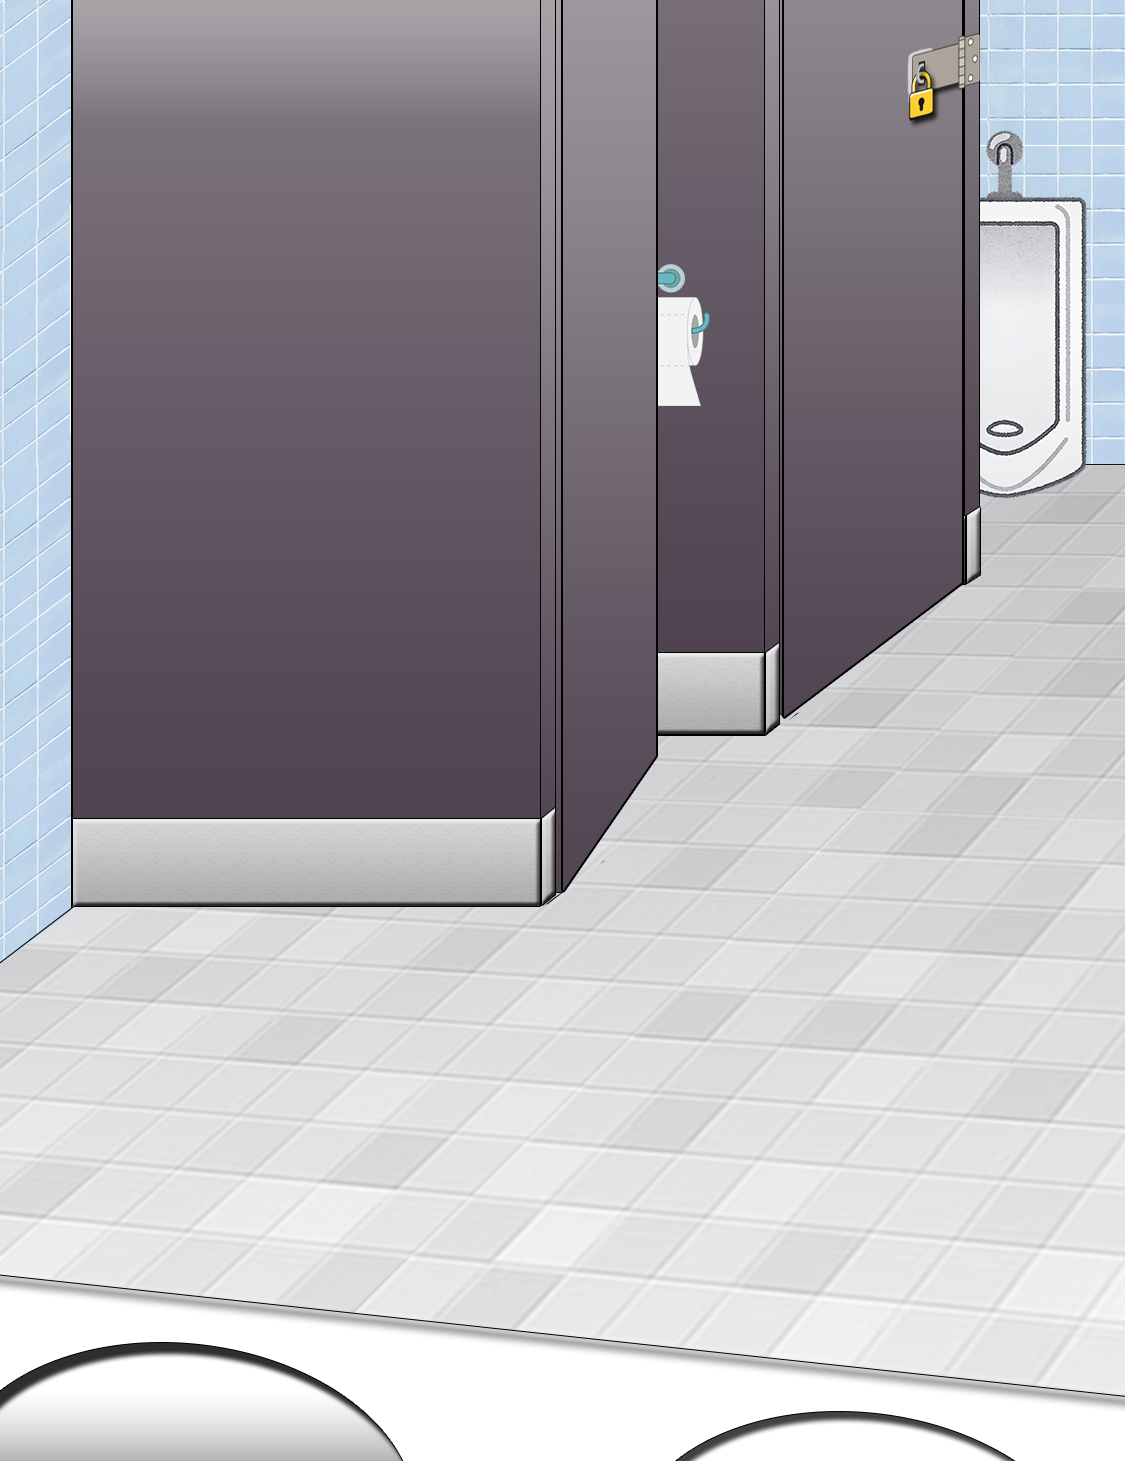
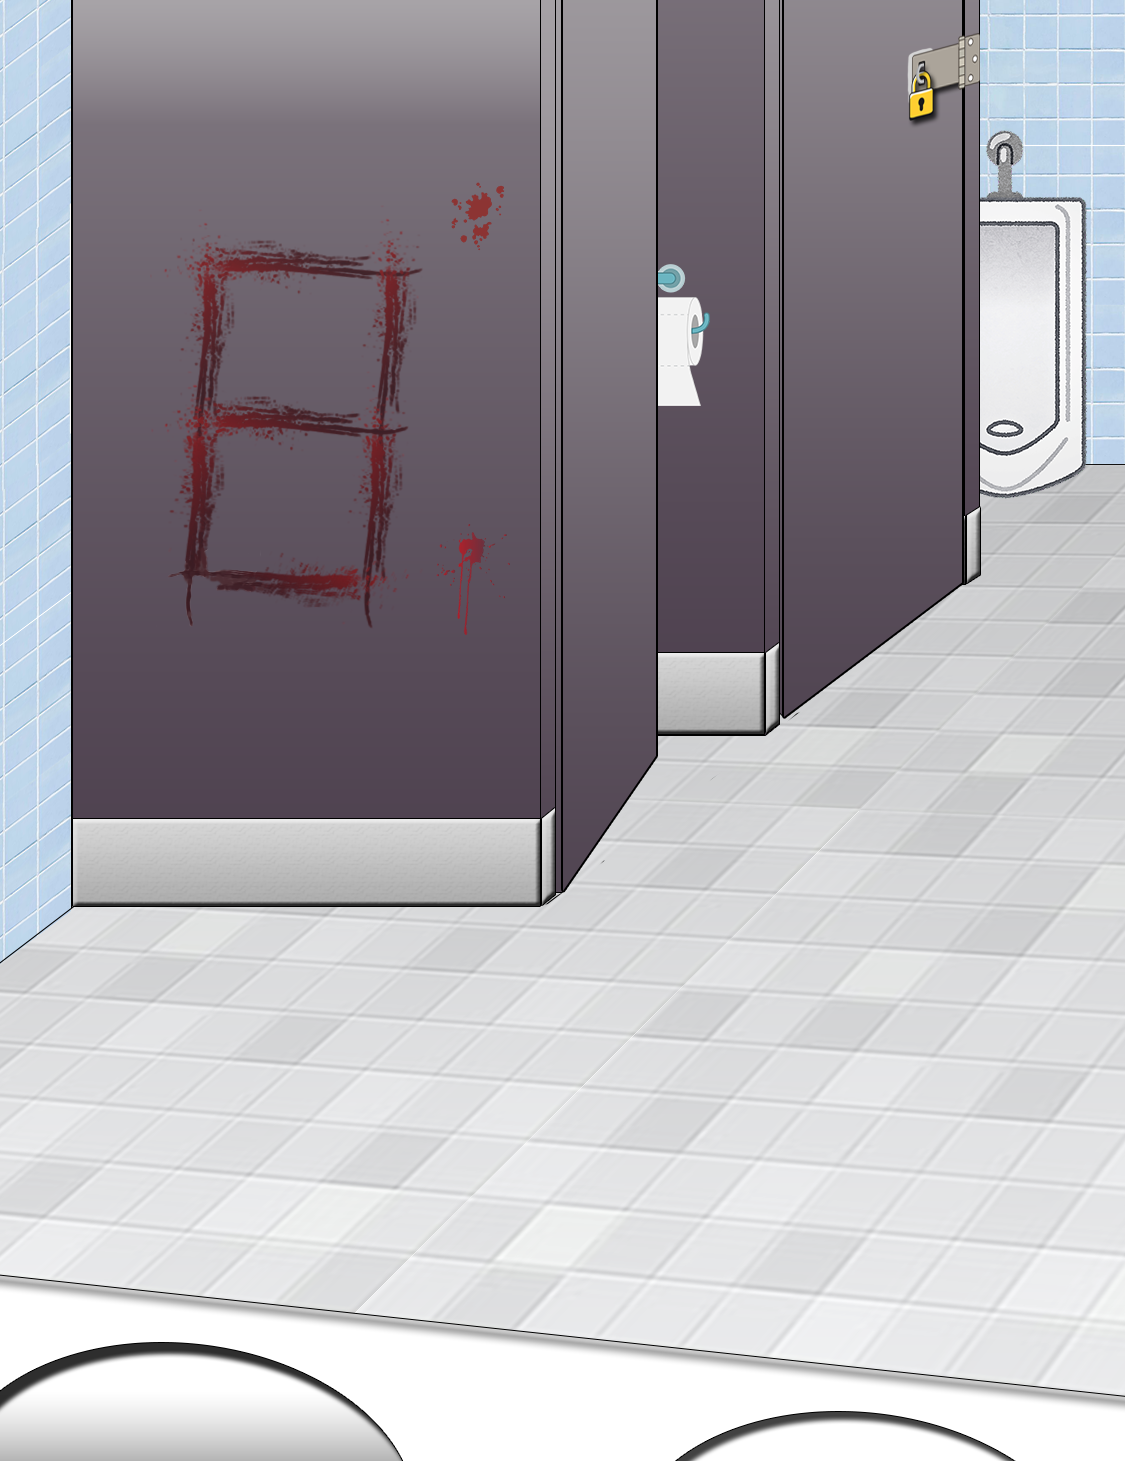
Add files via upload

Changed region(s): [[0.1556, 0.154, 0.3733, 0.4312], [0.4044, 0.1232, 0.4356, 0.1848], [0.4044, 0.3696, 0.4356, 0.4004]]

diff --git a/assets/js/room1.js b/assets/js/room1.js
@@ -1,9 +1,29 @@
+//이미지 관련선언
 var room = document.getElementById('room_container');
 var roomRect = room.getBoundingClientRect();
 var roomWidth = roomRect.width;
 var roomHeight = roomRect.height;
+var return_img = document.getElementById('return_img');
+var hammer_bg = document.getElementById('hammer_bg');
+var memo_bg = document.getElementById('memo_bg');
 
+//item 관련선언
+var item = [,,,,];
+item[1] = document.getElementById('item_1');
+item[2] = document.getElementById('item_2');
+item[3] = document.getElementById('item_3');
+item[4] = document.getElementById('item_4');
+
+var ItemFillNum = 0;
+var itemFillName = [,,,,];
+var itemSelectNum = 0;
+var itemSelectName;
+
+
+
+//기타 변수
 var room_number = 1;
+var hammer_get = false;
 
 document.addEventListener('click', function(event) {
 
@@ -20,25 +40,169 @@ document.addEventListener('click', function(event) {
 
     if(room_number === 1){ // 메인룸 일때
         if(x > roomWidth * 0.85 && y < roomHeight * 0.4){ // 우측상단 소변기쪽 클릭
-            console.log("소변기 구석");
             room.setAttribute('src', 'images/room1-1.png');
+            return_img.style.display = 'block';
             room_number = 2;
+            if(hammer_get == false){
+                hammer_bg.style.display = 'block';
+            }
+            
         }
     
-        if(x < roomWidth * 0.83 && x > roomWidth * 0.7 && y < roomHeight * 0.5){ // 우측상단 2사로 클릭
-            console.log("2사로");
+        if(x > roomWidth * 0.5 && x < roomWidth * 0.67 && y < roomHeight * 0.5){ // 중앙 1사로 클릭
+            console.log("1사로");
+            room.setAttribute('src', 'images/room1-2.png');
+            return_img.style.display = 'block';
             room_number = 3;
-            
+        }
+
+        if(x < roomWidth * 0.83 && x > roomWidth * 0.7 && y < roomHeight * 0.4){ // 우측상단 2사로 클릭
+            console.log("2사로");
+            room.setAttribute('src', 'images/room1-3.png');
+            return_img.style.display = 'block';
+            room_number = 4;
         }
     }
 
     else if(room_number === 2){ // 소변기 구석룸 일때
-        if(x < roomWidth * 0.2 && y > roomHeight * 0.3 && y < roomHeight * 0.7){ // 우측상단 소변기쪽 클릭
-            console.log("메인룸");
+        if(x < roomWidth * 0.2 && y > roomHeight * 0.83 && y < roomHeight * 0.97){ // 메인룸 돌아가기
             room.setAttribute('src', 'images/room1.png');
+            return_img.style.display = 'none';
+            hammer_bg.style.display = 'none';
             room_number = 1;
+        }
+
+    }
+
+    else if(room_number === 3){ // 1사로 일때
+        if(x < roomWidth * 0.2 && y > roomHeight * 0.8){ // 메인룸 돌아가기
+            room.setAttribute('src', 'images/room1.png');
+            return_img.style.display = 'none';
+            room_number = 1;
+        }
+        if(x < roomWidth * 0.78 && x > roomWidth * 0.67 && y > roomHeight * 0.35 && y < roomHeight * 0.45){ // 균열 클릭
+            if(itemSelectNum != 0){
+                if(itemSelectName === 'hammer'){
+                    room.setAttribute('src', 'images/room1-2-1.png');
+                    //memo_bg.style.display = 'block';
+                    memo_bg.style.display = 'block';
+                    var a = 1;
+                    var interval = setInterval(function(){
+                        memo_bg.style.opacity = a;
+                        a = a - 0.1;
+                        if(a < 0){clearInterval(interval);};
+                    }, 100);
+                    itemFillName[itemSelectNum] = "memo";
+                    item[itemSelectNum].setAttribute('src', 'images/memo_bg.png');
+                    itemSelectNum = 0;
+                    itemSelectName = 0;
+                    item[1].style.backgroundColor="transparent";
+                    item[2].style.backgroundColor="transparent";
+                    item[3].style.backgroundColor="transparent";
+                    item[4].style.backgroundColor="transparent";
+                }
+            }
         }
     }
     
+    else if(room_number === 4){ // 2사로 일때
+        if(x < roomWidth * 0.2 && y > roomHeight * 0.8){ // 메인룸 돌아가기
+            room.setAttribute('src', 'images/room1.png');
+            return_img.style.display = 'none';
+            room_number = 1;
+        }
+    }
 
+});
+
+// 해머 발견
+hammer_bg.addEventListener('click', function(event) {
+    hammer_bg.style.display = 'none';
+    hammer_get = true;
+
+    if(ItemFillNum === 0){
+        item[1].setAttribute('src', 'images/hammer_item.png');
+        ItemFillNum++;
+        itemFillName[ItemFillNum] = "hammer";
+        
+    }
+    else if(ItemFillNum === 1){
+        item[2].setAttribute('src', 'images/hammer_item.png');
+        ItemFillNum++;
+        itemFillName[ItemFillNum] = "hammer";
+        
+    }
+    else if(ItemFillNum === 2){
+        item[3].setAttribute('src', 'images/hammer_item.png');
+        ItemFillNum++;
+        itemFillName[ItemFillNum] = "hammer";
+        
+    }
+    else if(ItemFillNum === 3){
+        item[4].setAttribute('src', 'images/hammer_item.png');
+        ItemFillNum++;
+        itemFillName[ItemFillNum] = "hammer";
+    }
+});
+
+// 아이템컨테이너에서 아이템 선택 시
+item[1].addEventListener('click', function(event) {
+    if(itemSelectNum === 1){
+        item[1].style.backgroundColor="transparent";
+        itemSelectNum = 0;
+        itemSelectName = 0;
+    }
+    else{
+        item[1].style.backgroundColor="rgb(248, 144, 84)";
+        item[2].style.backgroundColor="transparent";
+        item[3].style.backgroundColor="transparent";
+        item[4].style.backgroundColor="transparent";
+        itemSelectNum = 1;
+        itemSelectName = itemFillName[itemSelectNum];
+    }
+});
+item[2].addEventListener('click', function(event) {
+    if(itemSelectNum === 2){
+        item[2].style.backgroundColor="transparent";
+        itemSelectNum = 0;
+        itemSelectName = 0;
+    }
+    else{
+        item[1].style.backgroundColor="transparent";
+        item[2].style.backgroundColor="rgb(248, 144, 84)";
+        item[3].style.backgroundColor="transparent";
+        item[4].style.backgroundColor="transparent";
+        itemSelectNum = 2;
+        itemSelectName = itemFillName[itemSelectNum];
+    }
+});
+item[3].addEventListener('click', function(event) {
+    if(itemSelectNum === 3){
+        item[3].style.backgroundColor="transparent";
+        itemSelectNum = 0;
+        itemSelectName = 0;
+    }
+    else{
+        item[1].style.backgroundColor="transparent";
+        item[2].style.backgroundColor="transparent";
+        item[3].style.backgroundColor="rgb(248, 144, 84)";
+        item[4].style.backgroundColor="transparent";
+        itemSelectNum = 3;
+        itemSelectName = itemFillName[itemSelectNum];
+    }
+});
+item[4].addEventListener('click', function(event) {
+    if(itemSelectNum === 4){
+        item[4].style.backgroundColor="transparent";
+        itemSelectNum = 0;
+        itemSelectName = 0;
+    }
+    else{
+        item[1].style.backgroundColor="transparent";
+        item[2].style.backgroundColor="transparent";
+        item[3].style.backgroundColor="transparent";
+        item[4].style.backgroundColor="rgb(248, 144, 84)";
+        itemSelectNum = 4;
+        itemSelectName = itemFillName[itemSelectNum];
+    }
 });

diff --git a/assets/css/main.css b/assets/css/main.css
@@ -4132,6 +4132,9 @@
 }
 
 #item_container {
+	display: grid;
+	align-content: center;
+	grid-template-columns: 27% 18% 18% 18% 18%;
 	width: 100%; 
 	height: 10%;
 	background-image: url("../../images/item.png");
@@ -4141,3 +4144,61 @@
 	top: 60%;
 	left: 0;
 }
+#item_container #item_1 {
+	grid-area:1/2/2/3;
+	height: 90%;
+	width:100%;
+	/*background-color: rgb(248, 144, 84);*/
+}
+#item_container #item_2 {
+	grid-area:1/3/2/4;
+	height: 90%;
+	width:100%;
+	/*background-color: rgb(248, 144, 84);*/
+}
+#item_container #item_3 {
+	grid-area:1/4/2/5;
+	height: 90%;
+	width:100%;
+	/*background-color: rgb(248, 144, 84);*/
+}
+#item_container #item_4 {
+	grid-area:1/5/2/6;
+	height: 90%;
+	width:100%;
+	/*background-color: rgb(248, 144, 84);*/
+}
+
+#return_img {
+	display: none;
+	z-index: 4;
+	width: 20%; 
+	height: 9%;
+	position: absolute;
+	transform: translate(-50%, -50%);
+	top: 54%;
+	left: 12%;
+}
+
+#hammer_bg {
+	display: none;
+	z-index: 4;
+	width: 22%; 
+	height: 11%;
+	position: absolute;
+	transform: translate(-50%, -50%);
+	top: 20%;
+	left: 77%;
+}
+#memo_bg {
+	display: none;
+	z-index: 4;
+	width: 22%; 
+	height: 11%;
+	position: absolute;
+	transform: translate(-50%, -50%);
+	top: 20%;
+	left: 77%;
+}
+
+

diff --git a/room_first.html b/room_first.html
@@ -5,10 +5,24 @@
 		<!-- Boby -->
 		<section id="banner3">
 			<div id ="content" class="base_container">
-				<img id = "room_container" src="images/room1.png"></img>
-				<div id ="item_container"></div>
+				<img id = "room_container" src="images/room1.png">
+				<div id ="item_container">
+					<img id = "item_1">
+					<img id = "item_2">
+					<img id = "item_3">
+					<img id = "item_4">
+				</div>
+					
 
+
+
+				<img id = "return_img" src="images/return.png">
+				<img id = "hammer_bg" src="images/hammer_bg.png">
+				<img id = "memo_bg" src="images/memo_bg.png">
+			
 			</div>
+
+
 
 
 			<!--bottom_section-->

diff --git a/index.html b/index.html
@@ -9,9 +9,9 @@
 		<!-- Boby -->
 		<section id="banner3">
 			<div id ="content" class="base_container">
-				<img id = "dark" src="images/dark.png"></img>
-				<img id ="intro_container" src="images/bg_intro1.png"></img>
-				<img id = "start_bt" src="images/start.png"></img>
+				<img id = "dark" src="images/dark.png">
+				<img id ="intro_container" src="images/bg_intro1.png">
+				<img id = "start_bt" src="images/start.png">
 				<div id = "warning_container"></div>
 			</div>
 
